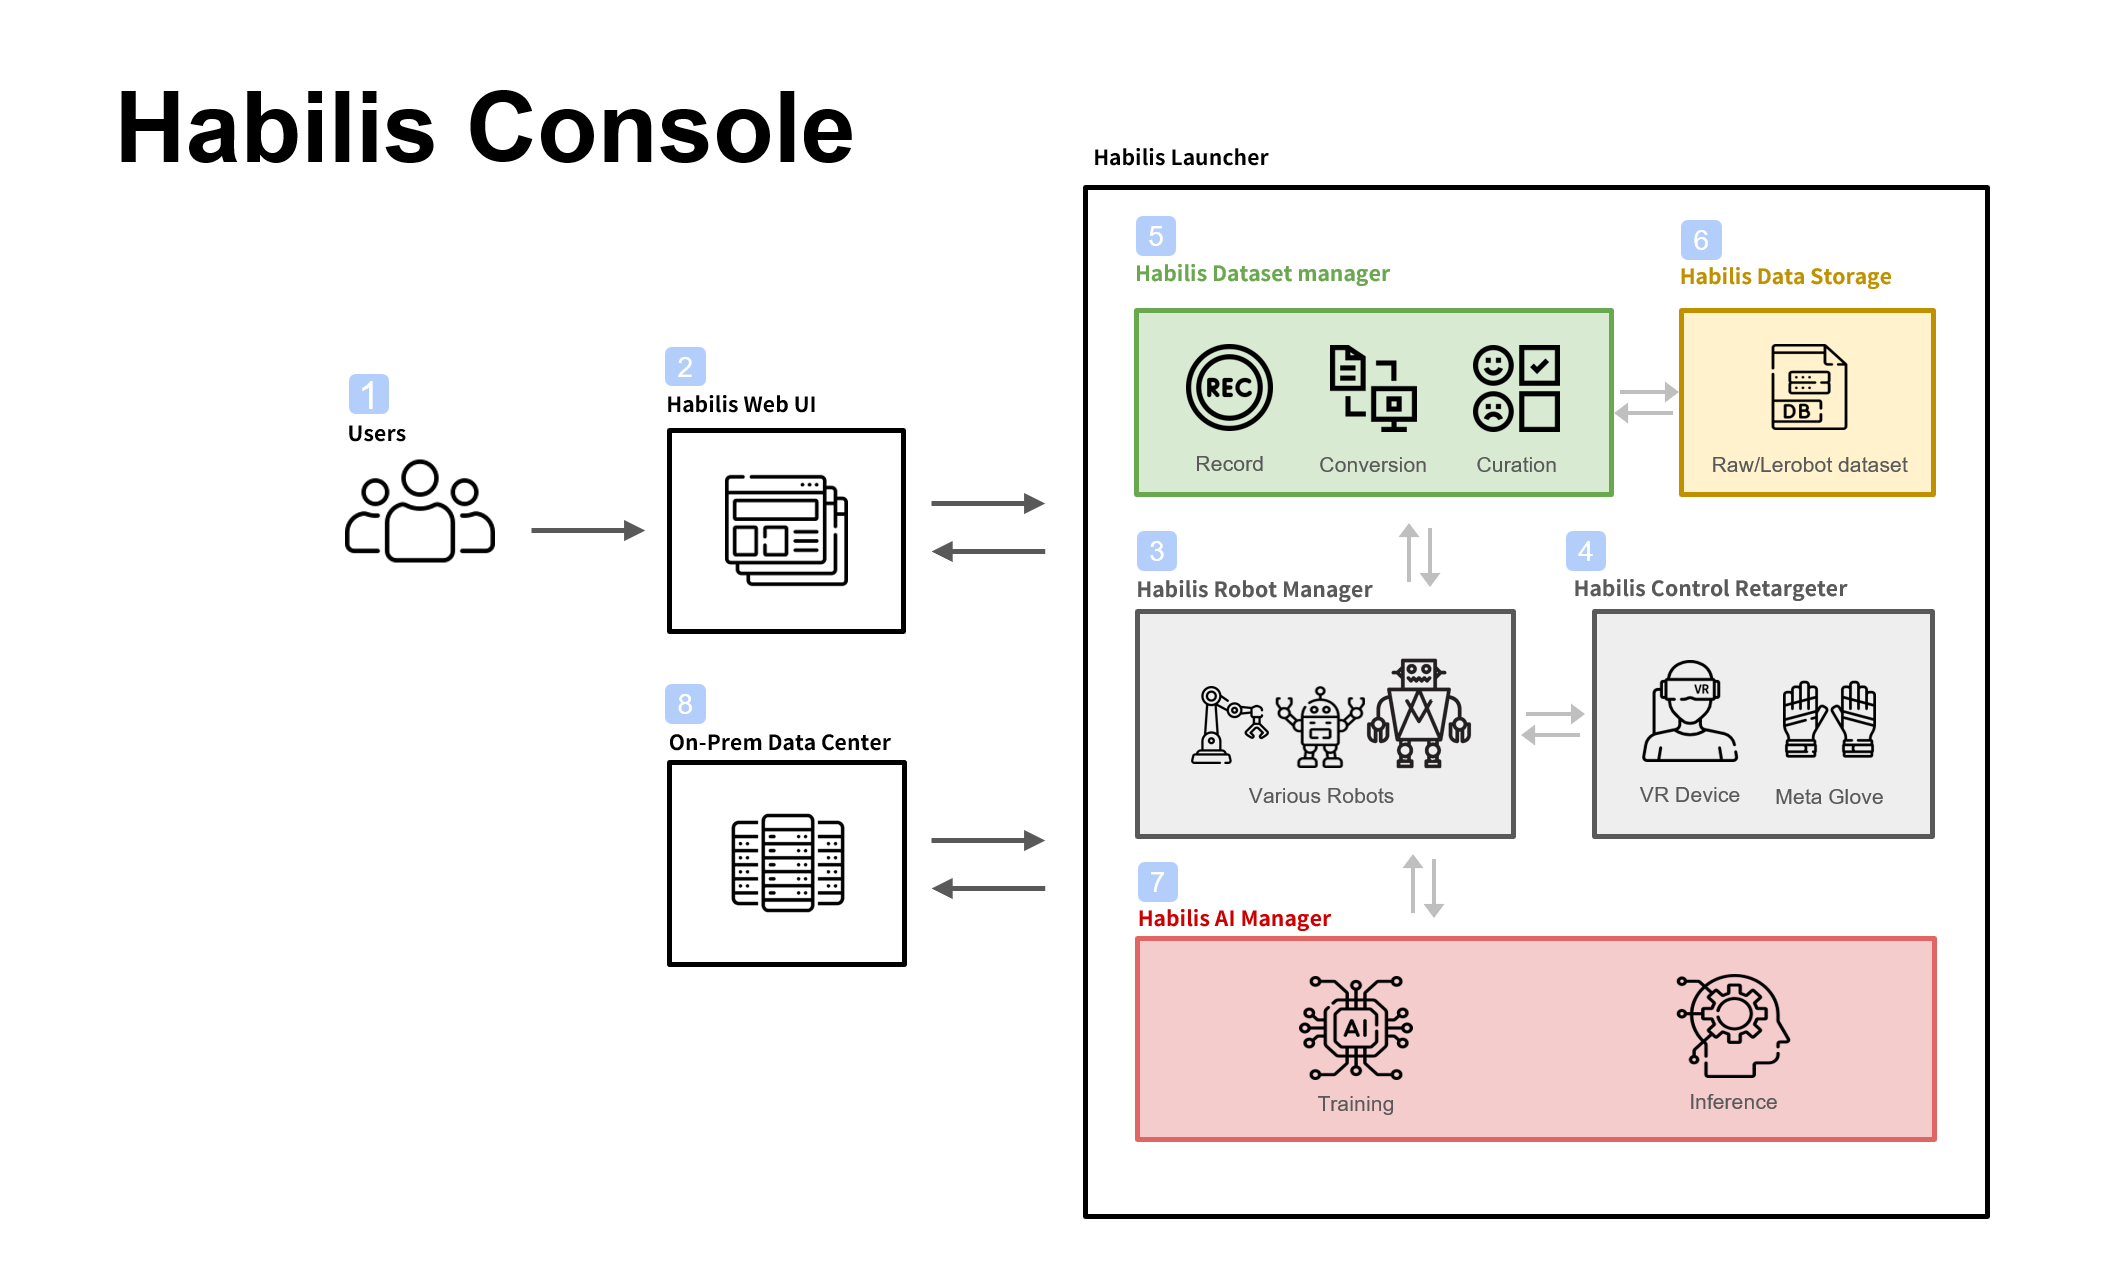
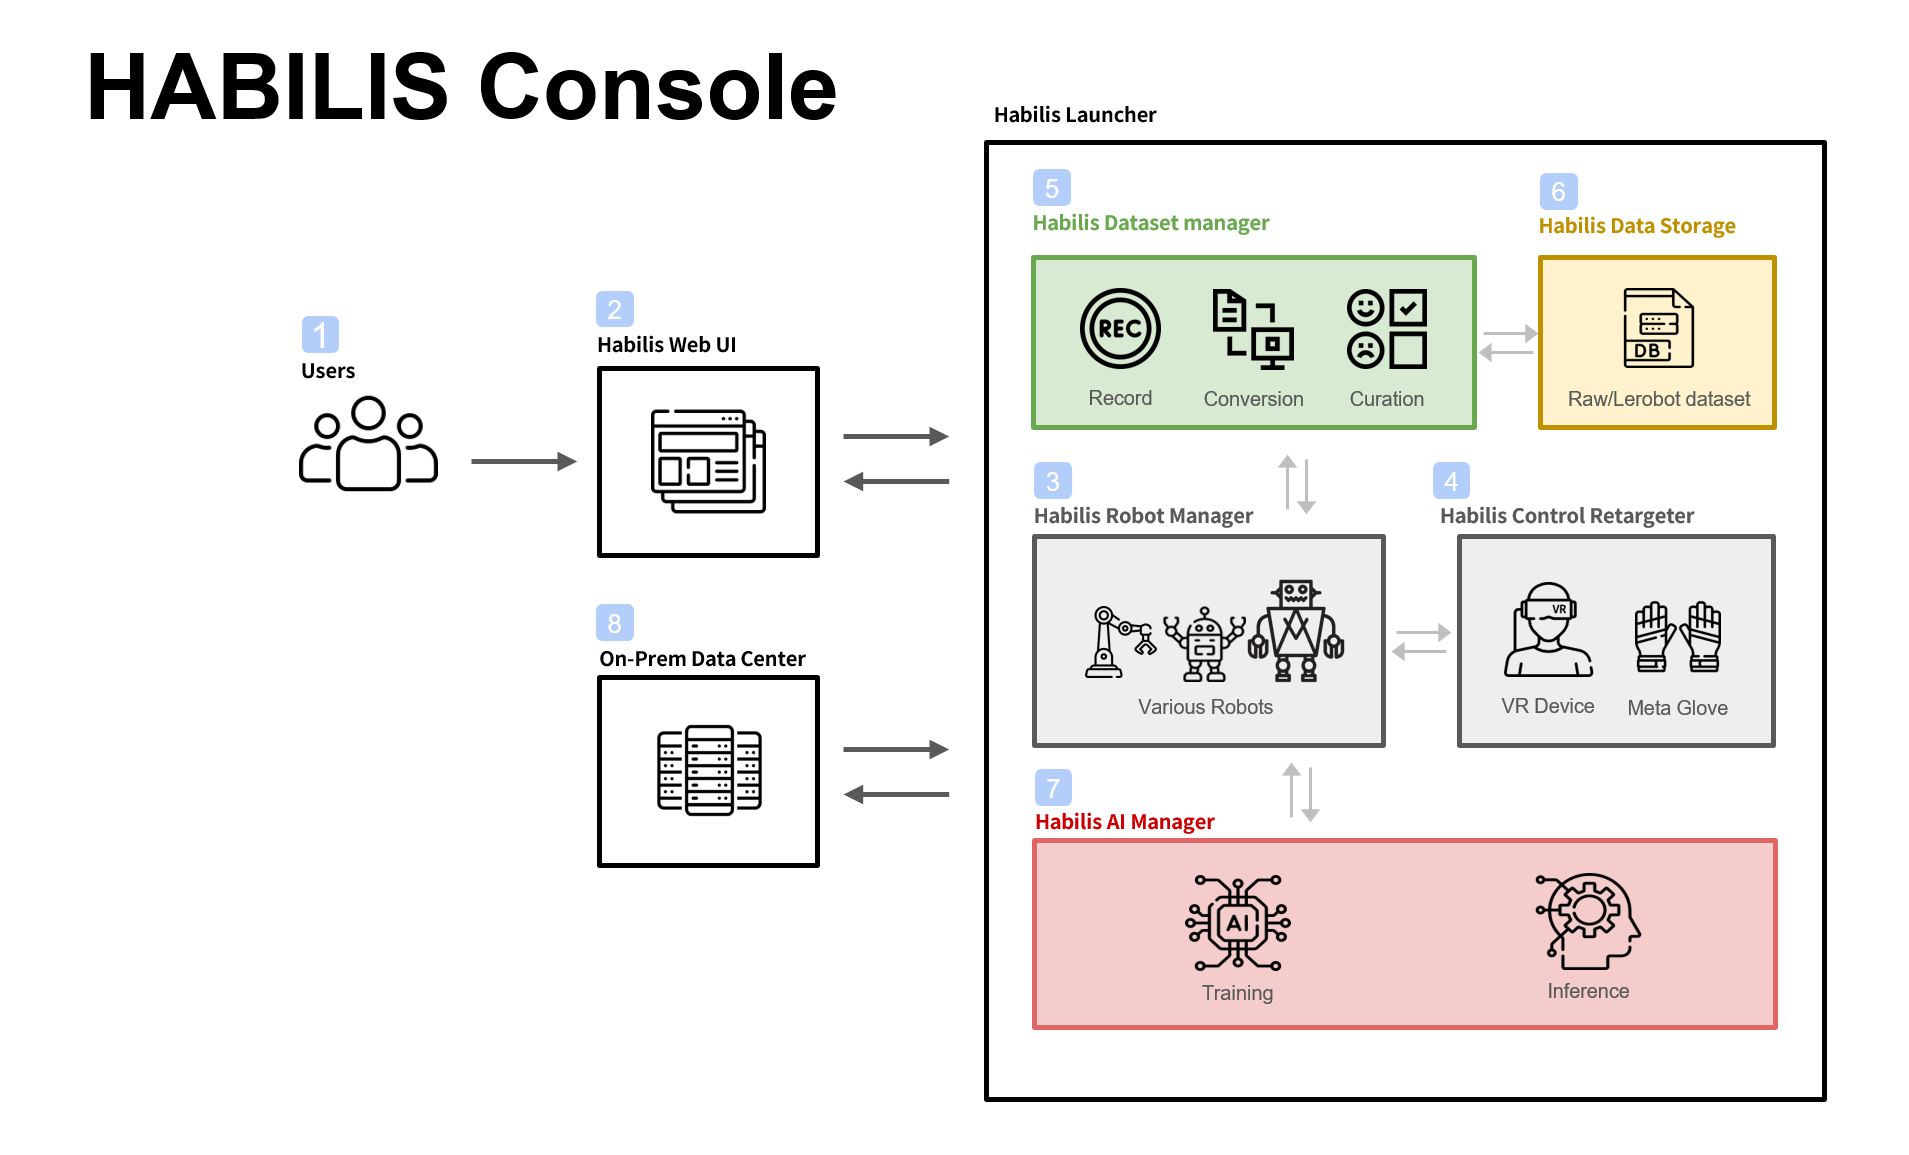
chore: change naming to uppercase and add faq

Changed region(s): [[0.4327, 0.0935, 0.9581, 0.9662], [0.1545, 0.2494, 0.4327, 0.7792], [0.0309, 0.0312, 0.4636, 0.1247]]

diff --git a/docs/launcher/1.3_linux.md b/docs/launcher/1.3_linux.md
@@ -8,12 +8,13 @@
 
 ### User PC
 
-#### Ubuntu 24.04
+
+##### `Ubuntu 24.04`
 ```bash
 sudo apt update
 sudo apt install -y podman podman-compose
 ```
-#### Ubuntu 22.04
+##### `Ubuntu 22.04` 
 ```bash
 sudo sh -c "echo 'deb https://download.opensuse.org/repositories/devel:/kubic:/libcontainers:/unstable/xUbuntu_22.04/ /' > /etc/apt/sources.list.d/libcontainers.list"
 sudo curl -fsSL https://download.opensuse.org/repositories/devel:/kubic:/libcontainers:/unstable/xUbuntu_22.04/Release.key | sudo gpg --dearmor -o /etc/apt/trusted.gpg.d/libcontainers.gpg
@@ -21,13 +22,13 @@ sudo apt update
 sudo apt install -y podman podman-compose
 ```
 
-#### Fedora/CentOS/Rocky/AlmaLinux
+##### `Fedora/CentOS/Rocky/AlmaLinux`
 ```bash
 sudo dnf install -y podman podman-compose
 ```
 
 ### Robot PC (Jetson)
-#### Linux22.04
+##### `Ubuntu 22.04`
 ```bash
 set -e
 
@@ -48,7 +49,7 @@ sudo apt -y \
 
 sudo pip install podman-compose
 ```
-#### Ubuntu 24.04
+##### `Ubuntu 24.04`
 ```bash
 sudo apt update
 sudo apt install -y podman podman-compose
@@ -63,7 +64,8 @@ sudo apt install -y podman podman-compose
 podman --version
 podman-compose --version
 ```
-podman > 4.x이상 버젼이 설치되어 있는지 확인해주세요
+
+<div style="color:#2271b1"> podman > 4.x이상 버젼이 설치되어 있는지 확인해주세요.</div> 
 
 ## Step 2. 설치
 

diff --git a/docs/faq.md b/docs/faq.md
@@ -1,1 +1,11 @@
 # FAQ
+
+#### 1. 인스턴스 수가 한도에 도달했어요. 초기화가 필요해요!
+하빌리스 런처의 Settings 탭 하단 > OCI Records 클릭 > 원하는 설치 디바이스 삭제
+
+<div style="display:flex;flex-wrap:nowrap;gap:10px;">
+
+  <img src="/image/instance_reset.png" width="50%" />
+  <img src="/image/instance_reset2.png" width="50%" />
+
+</div>
